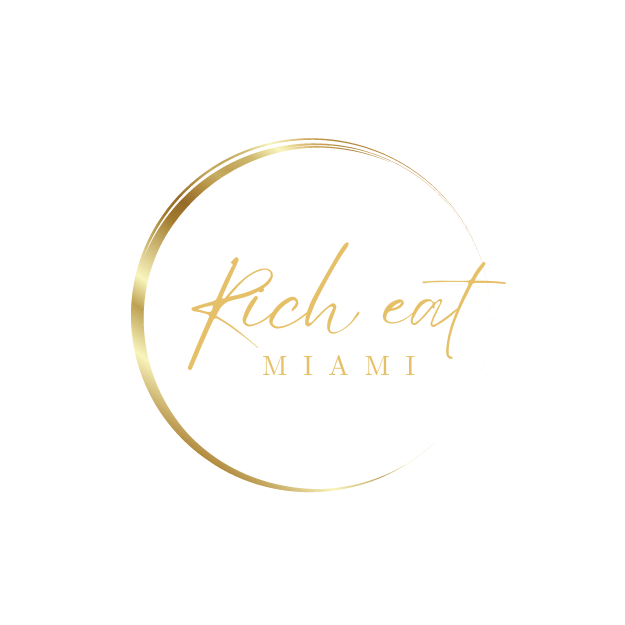
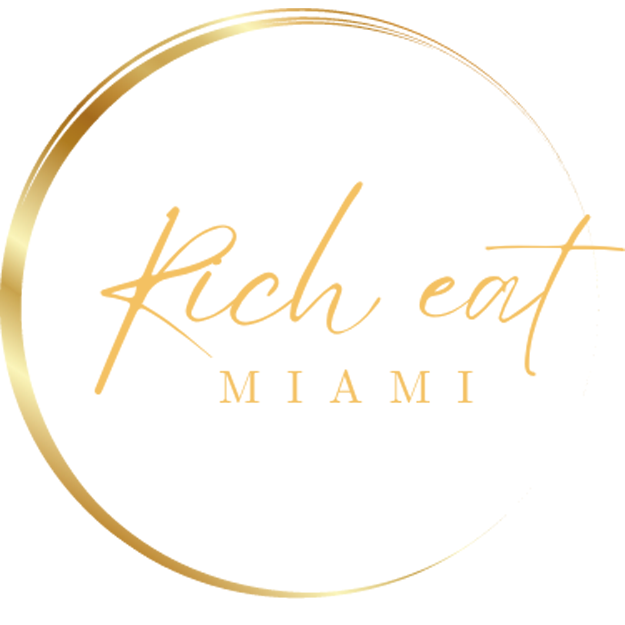
tercero

diff --git a/style.scss b/style.scss
@@ -123,7 +123,8 @@ header {
   justify-content: center;
 
   img {
-    width: 35%;
+    margin-top: 15%;
+    width: 20%;
     z-index: 2;
   }
 
@@ -270,7 +271,7 @@ footer {
     max-width: 100%;
     height: auto;
     display: flex;
-    width: 30vw; // Ajusta el tamaño máximo del logo según tus preferencias
+    width: 15vw; // Ajusta el tamaño máximo del logo según tus preferencias
     
   }
 

diff --git a/style.css b/style.css
@@ -109,7 +109,8 @@ header {
   justify-content: center;
 }
 .contenido-header img {
-  width: 35%;
+  margin-top: 15%;
+  width: 20%;
   z-index: 2;
 }
 .contenido-header h1 {
@@ -235,7 +236,7 @@ footer .footer-logo img {
   max-width: 100%;
   height: auto;
   display: flex;
-  width: 30vw;
+  width: 15vw;
 }
 footer .footer-divider {
   height: 80px;
